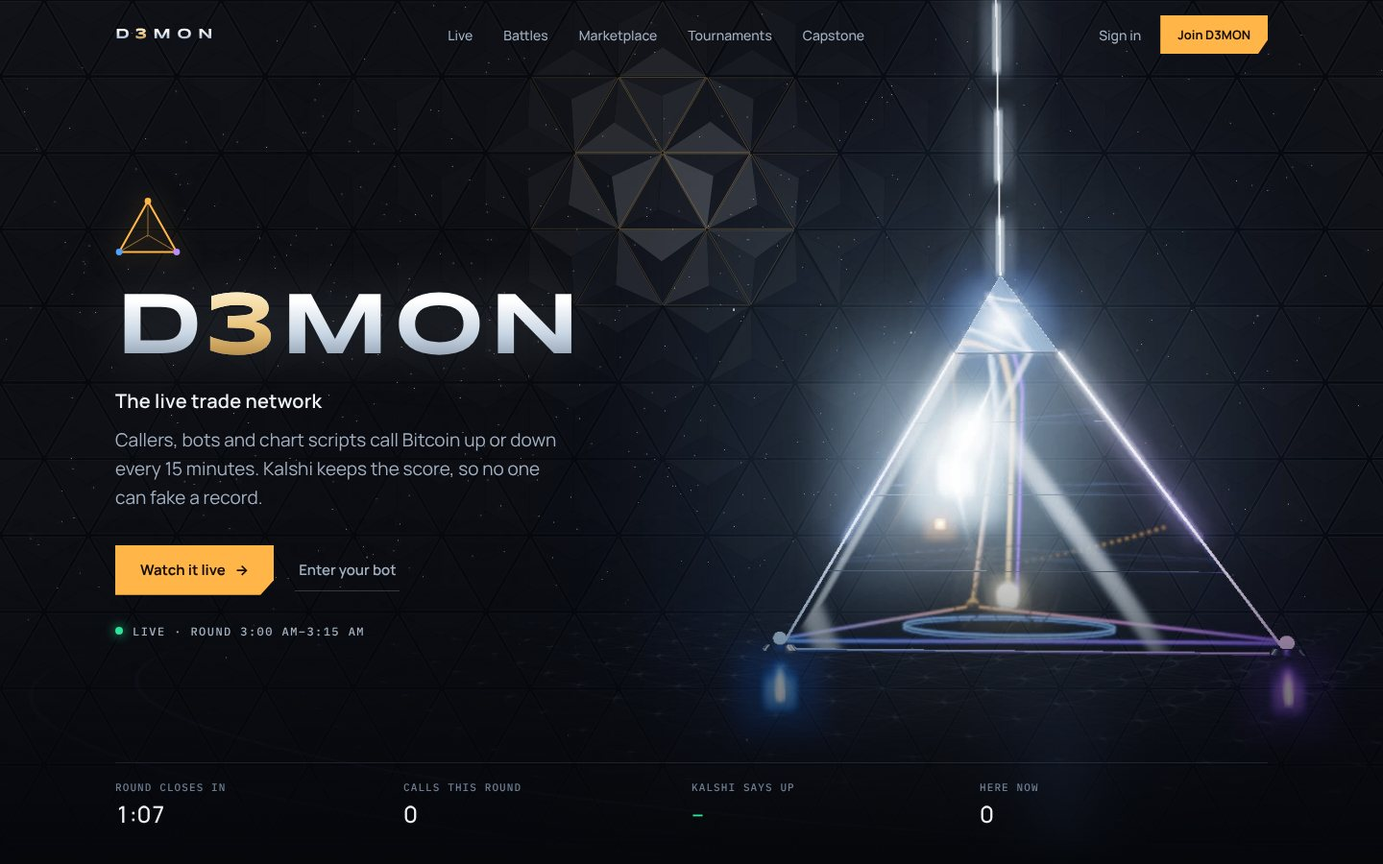
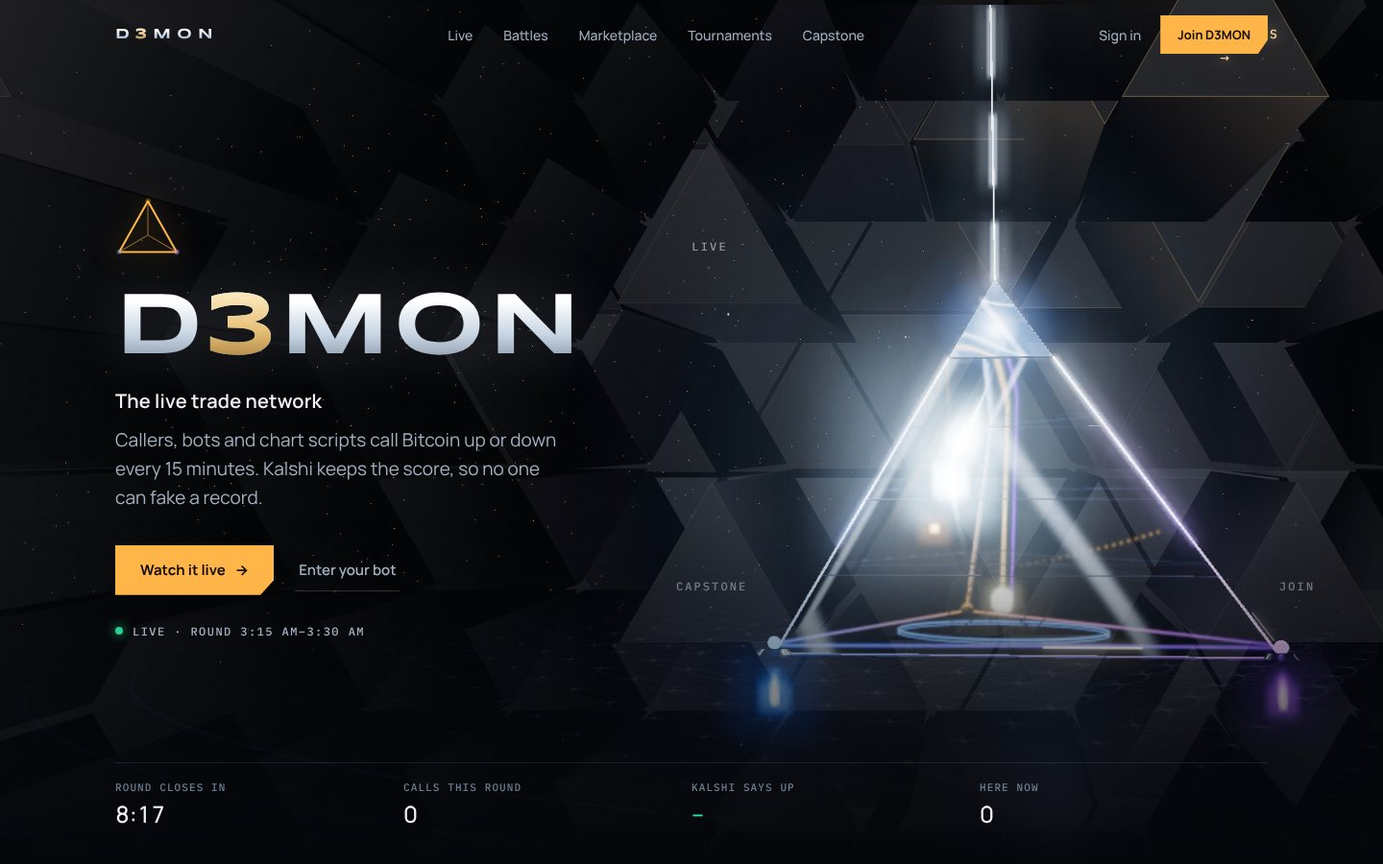
/next: a wall of deep black blocks, three of them shortcuts
After Rubric's tiles, made D3MON's own: big matte-black triangular blocks with deep sides
form a tunnel that opens around the glass pyramid. They breathe, push out toward the
pointer on a spring with a faint gold edge, and ripple from a click; behind the words they
stay back and dark. Three blocks are engraved shortcuts (Live, Tournaments, Capstone)
that open through the page transition.

Claude-Session: https://claude.ai/code/session_014SvgFLPymcNibG8zpDTguD

diff --git a/public/js/next.js b/public/js/next.js
@@ -12,71 +12,127 @@
   const pct = v => (v == null ? "–" : `${Math.round(v * 100)}%`);
   const KIND = { caller: "Caller", bot: "Bot", script: "Chart script" };
 
-  // ---------- the hero's wall: a field of small glass pyramids. Each triangle tile is a low three-sided pyramid; the
-  // ones near the pointer rise on a spring and settle back when it leaves, their faces lit from the pointer and their
-  // raised edges catching a fine gold line. A click or tap sends a ripple across the wall. Calm everywhere else, and
-  // quiet behind the words. Reduce motion gets the still, lit wall.
+  // ---------- the hero's wall (after Rubric's deep tiles, made D3MON's own): big matte-black triangular blocks with
+  // deep sides, seen in perspective, forming a tunnel that opens around the glass pyramid. Blocks further out stand
+  // nearer; each breathes slowly in and out, the ones near the pointer push out toward you on a spring and settle
+  // back, and a click sends a push rippling through the wall. The edges facing the light catch a faint gold.
+  // Reduce motion gets the still tunnel.
   function field() {
     const cv = $("field"), g = cv.getContext("2d"), dpr = Math.min(2, devicePixelRatio || 1);
-    let W, H, S, tiles = [], mx = -1e4, my = -1e4, ease = 0, seen = true, waves = [];
+    let W, H, S, F, vx, vy, tiles = [], mx = -1e4, my = -1e4, sx = 0, sy = 0, seen = true, waves = [], t0 = performance.now();
+    const BACK = -520; // how deep the blocks' sides run
+    // a few blocks are shortcuts, engraved with where they go (wide screens; phones have the Menu). Each sits at a
+    // spot clear of the words and the pyramid, given as a share of the hero's width and height.
+    const LINKS = [{ at: [0.49, 0.3], label: "Live", href: "#live" }, { at: [0.9, 0.25], label: "Tournaments", href: "tournaments" },
+      { at: [0.49, 0.7], label: "Capstone", href: "vip" }];
+    let hover = null;
     function size() {
       W = cv.clientWidth; H = cv.clientHeight; cv.width = W * dpr; cv.height = H * dpr; g.setTransform(dpr, 0, 0, dpr, 0, 0);
-      S = W > 900 ? 92 : 62; // a tile's side
-      const h = S * 0.866; tiles = [];
-      for (let r = -1; r * h < H + h; r++) for (let c = -2; c * S / 2 < W + S; c++) {
+      const wide = W > 900;
+      S = wide ? 190 : 120; F = wide ? 1700 : 1100;
+      // the tunnel opens where the pyramid stands: right of the words on wide screens, the top half on phones
+      vx = wide ? W * 0.72 : W * 0.5; vy = wide ? H * 0.5 : H * 0.26;
+      const h = S * 0.866, open = wide ? Math.min(W, H) * 0.42 : W * 0.48; tiles = [];
+      for (let r = -2; r * h < H + 2 * h; r++) for (let c = -3; c * S / 2 < W + 2 * S; c++) {
         const up = (r + c) % 2 === 0, x = c * S / 2, y = r * h;
         const pts = up ? [[x + S / 2, y], [x + S, y + h], [x, y + h]] : [[x, y], [x + S, y], [x + S / 2, y + h]];
         const cx = (pts[0][0] + pts[1][0] + pts[2][0]) / 3, cy = (pts[0][1] + pts[1][1] + pts[2][1]) / 3;
-        // the wall darkens toward the middle-left, where the words sit, so it never fights them
-        const quiet = Math.min(1, Math.hypot((cx - W * 0.28) / (W * 0.45), (cy - H * 0.5) / (H * 0.6)));
-        tiles.push({ pts, cx, cy, quiet, z: 0, v: 0, p: Math.random() * 6.28, f: 0.2 + Math.random() * 0.3 });
+        const ins = pts.map(([px, py]) => [px + (cx - px) * 0.06, py + (cy - py) * 0.06]); // the seam between blocks
+        const k = Math.min(1, Math.max(0, (Math.hypot(cx - vx, cy - vy) - open) / (open * 1.3)));
+        // calm behind the words: the blocks there sit back and stay dark so the text reads
+        const calm = wide ? Math.max(0, 1 - Math.hypot((cx - W * 0.22) / (W * 0.26), (cy - H * 0.5) / (H * 0.42))) : 0;
+        tiles.push({ pts: ins, cx, cy, up, calm, base: (40 + 230 * k * k * (3 - 2 * k)) * (1 - 0.7 * calm), z: 0, v: 0, p: Math.random() * 6.28, f: 0.25 + Math.random() * 0.25 });
+      }
+      if (wide) for (const l of LINKS) { // the upward block nearest each spot carries the shortcut
+        const [px, py] = [l.at[0] * W, l.at[1] * H];
+        const at = x => proj(x.cx, x.cy, x.base + 70); // where it will stand, raised
+        const t = tiles.filter(x => x.up && !x.link && x.calm < 0.05 && at(x)[1] > H * 0.2 && at(x)[1] < H * 0.78 && at(x)[0] < W - S * 0.5)
+          .sort((a, b) => Math.hypot(at(a)[0] - px, at(a)[1] - py) - Math.hypot(at(b)[0] - px, at(b)[1] - py))[0];
+        if (t) t.link = l;
       }
     }
-    const pullR = () => (W > 900 ? 230 : 150);
+    // a point at depth z, seen from in front of the vanishing point (which drifts a little with the pointer)
+    const proj = (x, y, z) => { const s = F / (F - z), ox = vx + sx, oy = vy + sy; return [ox + (x - ox) * s, oy + (y - oy) * s]; };
     function draw(now) {
-      const tt = now / 1000, R = pullR();
-      ease = Math.min(1, ease + 0.02);
-      waves = waves.filter(w => tt - w.t < 2.4);
-      g.fillStyle = "#06080c"; g.fillRect(0, 0, W, H);
+      const tt = (now - t0) / 1000, R = W > 900 ? 300 : 180;
+      waves = waves.filter(w => tt - w.t < 2.6);
+      if (!reduce) { sx += ((mx > -1e3 ? (mx - vx) * -0.04 : 0) - sx) * 0.05; sy += ((my > -1e3 ? (my - vy) * -0.04 : 0) - sy) * 0.05; }
+      const intro = reduce ? 1 : Math.min(1, tt / 2.2), io = 1 - (1 - intro) ** 3; // on arrival the blocks slide forward out of the dark
       for (const t of tiles) {
-        // how high the tile wants to be: a faint swell, the pointer lifting the ones near it, and any ripple passing
-        const swell = reduce ? 0.15 : 0.12 + 0.1 * Math.sin(tt * t.f + t.p + t.cx * 0.004 - t.cy * 0.003);
-        const d = Math.hypot(t.cx - mx, t.cy - my), near = Math.max(0, 1 - d / R), lift = near * near * (3 - 2 * near);
+        const breathe = reduce ? 0 : 18 * Math.sin(tt * t.f + t.p);
+        const d = Math.hypot(t.cx - mx, t.cy - my), near = Math.max(0, 1 - d / R), push = near * near * (3 - 2 * near) * 110;
         let ring = 0;
-        for (const w of waves) { const rr = (tt - w.t) * 620, gap = Math.abs(Math.hypot(t.cx - w.x, t.cy - w.y) - rr); ring = Math.max(ring, Math.max(0, 1 - gap / 70) * (1 - (tt - w.t) / 2.4)); }
-        const target = (swell + 1.1 * lift + 0.9 * ring) * ease;
-        if (reduce) t.z = target; else { t.v += (target - t.z) * 0.09; t.v *= 0.78; t.z += t.v; } // a soft spring: it pumps out, then settles
-        const z = Math.max(0, t.z), k = t.quiet;
-        // the apex leans away from the pointer as the tile rises, so it reads as a raised pyramid
-        const lean = Math.min(1, z) * S * 0.08, dx = t.cx - mx, dy = t.cy - my, dl = Math.hypot(dx, dy) || 1;
-        const ax = t.cx + (d < 2 * R ? (dx / dl) * lean : 0), ay = t.cy + (d < 2 * R ? (dy / dl) * lean : 0);
-        const grow = 0.07 - 0.05 * Math.min(1, z); // raised tiles close the seams a little
-        const P = t.pts.map(([px, py]) => [px + (t.cx - px) * grow, py + (t.cy - py) * grow]);
+        for (const w of waves) { const rr = (tt - w.t) * 700, gap = Math.abs(Math.hypot(t.cx - w.x, t.cy - w.y) - rr); ring = Math.max(ring, Math.max(0, 1 - gap / 120) * (1 - (tt - w.t) / 2.6)); }
+        const target = (t.base + breathe + push + 110 * ring + (t.link ? 70 : 0) + (t === hover ? 45 : 0)) * io - 200 * (1 - io);
+        if (reduce) t.z = target; else { t.v += (target - t.z) * 0.06; t.v *= 0.8; t.z += t.v; } // a soft spring: it pumps out, then settles
+        t.near = near;
+      }
+      g.fillStyle = "#040507"; g.fillRect(0, 0, W, H);
+      const ox = vx + sx, oy = vy + sy;
+      for (const t of [...tiles].sort((a, b) => a.z - b.z)) { // far blocks first
+        const front = t.pts.map(([x, y]) => proj(x, y, t.z)), back = t.pts.map(([x, y]) => proj(x, y, BACK));
+        const depth = Math.max(0, Math.min(1, t.z / 300));
+        // the sides: only the ones that face the opening are seen; lit a little from above, warmed by the pointer
         for (let m = 0; m < 3; m++) {
-          const a = P[m], b = P[(m + 1) % 3];
-          // the face's light: how much it faces the pointer (from above, a little in front), plus a soft top light
-          const fx = (a[0] + b[0] + ax) / 3, fy = (a[1] + b[1] + ay) / 3, ex = (a[0] + b[0]) / 2 - ax, ey = (a[1] + b[1]) / 2 - ay, el = Math.hypot(ex, ey) || 1;
-          const lx = mx - fx, ly = my - fy, ll = Math.hypot(lx, ly) || 1;
-          const toPtr = Math.max(0, (ex * lx + ey * ly) / (el * ll)) * Math.max(0, 1 - ll / (R * 2.2));
-          const top = Math.max(0, -ey / el) * 0.5 + 0.35;
-          const lit = (8 + 14 * z * top + 46 * z * toPtr) * (0.4 + 0.6 * k);
-          g.fillStyle = `rgb(${Math.round(lit + 6)},${Math.round(lit + 8)},${Math.round(lit + 13)})`;
-          g.beginPath(); g.moveTo(a[0], a[1]); g.lineTo(b[0], b[1]); g.lineTo(ax, ay); g.closePath(); g.fill();
+          const a = t.pts[m], b = t.pts[(m + 1) % 3], mxm = (a[0] + b[0]) / 2, mym = (a[1] + b[1]) / 2;
+          let nx = b[1] - a[1], ny = a[0] - b[0];
+          if (nx * (mxm - t.cx) + ny * (mym - t.cy) < 0) { nx = -nx; ny = -ny; } // the side's outward direction
+          if (nx * (ox - mxm) + ny * (oy - mym) <= 0) continue;
+          const nl = Math.hypot(nx, ny), up = Math.max(0, -ny / nl);
+          const l = (16 + 22 * up + 14 * depth) * (1 - 0.6 * t.calm);
+          const warm = t.near * 26;
+          const grd = g.createLinearGradient(...front[m], ...back[m]);
+          grd.addColorStop(0, `rgb(${Math.round(l + warm)},${Math.round(l + warm * 0.75)},${Math.round(l + 4 + warm * 0.35)})`); grd.addColorStop(1, "rgb(3,4,6)");
+          g.fillStyle = grd;
+          g.beginPath(); g.moveTo(...front[m]); g.lineTo(...front[(m + 1) % 3]); g.lineTo(...back[(m + 1) % 3]); g.lineTo(...back[m]); g.closePath(); g.fill();
         }
-        // the seams, and a fine gold line on the edges of the tiles that have risen
-        g.beginPath(); g.moveTo(P[0][0], P[0][1]); g.lineTo(P[1][0], P[1][1]); g.lineTo(P[2][0], P[2][1]); g.closePath();
-        const gold = Math.max(0, Math.min(1, z - 0.25)) * k;
-        g.strokeStyle = gold > 0.02 ? `rgba(233,194,122,${(0.55 * gold).toFixed(3)})` : `rgba(170,200,240,${(0.03 + 0.05 * k).toFixed(3)})`;
+        // the face: matte black, a touch lighter at the top, a faint rim, gold where the pointer is near
+        const top = Math.min(front[0][1], front[1][1], front[2][1]), bot = Math.max(front[0][1], front[1][1], front[2][1]);
+        const lf = Math.round((28 + 12 * depth) * (1 - 0.55 * t.calm)), fg = g.createLinearGradient(0, top, 0, bot);
+        fg.addColorStop(0, `rgb(${lf + 5},${lf + 6},${lf + 9})`); fg.addColorStop(1, `rgb(${lf - 5},${lf - 5},${lf - 3})`);
+        g.fillStyle = fg;
+        g.beginPath(); g.moveTo(...front[0]); g.lineTo(...front[1]); g.lineTo(...front[2]); g.closePath(); g.fill();
+        g.strokeStyle = t.near > 0.05 ? `rgba(233,194,122,${(0.06 + 0.4 * t.near).toFixed(3)})` : `rgba(190,205,230,${((0.06 + 0.08 * depth) * (1 - 0.6 * t.calm)).toFixed(3)})`;
         g.lineWidth = 1; g.stroke();
+        t.front = front;
+      }
+      for (const t of tiles) {
+        if (t.link && t.front) { const front = t.front; // the engraving: the place's name, gold with an arrow when the pointer is on it
+          const on = t === hover, c = front.reduce((q, [x, y]) => [q[0] + x / 3, q[1] + y / 3], [0, 0]), sc = F / (F - t.z);
+          g.save(); g.textAlign = "center"; g.textBaseline = "middle";
+          g.font = `500 ${Math.round(11 * sc)}px "IBM Plex Mono", monospace`; g.letterSpacing = `${(2 * sc).toFixed(1)}px`;
+          g.fillStyle = on ? "#F2D49A" : `rgba(205,215,232,${(0.62 * io).toFixed(2)})`;
+          if (on) { g.shadowColor = "rgba(233,194,122,.7)"; g.shadowBlur = 12; }
+          g.fillText(t.link.label.toUpperCase(), c[0], c[1] - 2 * sc);
+          g.font = `400 ${Math.round(13 * sc)}px "IBM Plex Mono", monospace`;
+          g.fillStyle = on ? "#F2D49A" : `rgba(200,212,230,${(0.28 * io).toFixed(2)})`;
+          g.fillText(on ? "→" : "·", c[0], c[1] + 18 * sc);
+          g.restore();
+        }
       }
       if (seen && !reduce && !document.hidden) requestAnimationFrame(draw);
     }
     new IntersectionObserver(([en]) => { const was = seen; seen = en.isIntersecting; if (seen && !was && !reduce) requestAnimationFrame(draw); }).observe(cv); // the wall rests while scrolled away
     size(); requestAnimationFrame(draw);
     addEventListener("resize", () => { size(); if (reduce) requestAnimationFrame(draw); });
-    addEventListener("pointermove", e => { const r = cv.getBoundingClientRect(); mx = e.clientX - r.left; my = e.clientY - r.top; }, { passive: true });
-    document.documentElement.addEventListener("pointerleave", () => { mx = my = -1e4; });
-    cv.closest(".n-hero").addEventListener("pointerdown", e => { if (reduce) return; const r = cv.getBoundingClientRect(); waves.push({ x: e.clientX - r.left, y: e.clientY - r.top, t: performance.now() / 1000 }); });
+    // which shortcut block, if any, is under a point (its face as drawn last frame)
+    const inside = (P, x, y) => { let sgn = 0; for (let m = 0; m < 3; m++) { const [ax, ay] = P[m], [bx, by] = P[(m + 1) % 3], c = (bx - ax) * (y - ay) - (by - ay) * (x - ax); if (c) { if (sgn && Math.sign(c) !== sgn) return false; sgn = Math.sign(c); } } return true; };
+    const linkAt = (x, y) => tiles.find(t => t.link && t.front && inside(t.front, x, y)) || null;
+    addEventListener("pointermove", e => {
+      const r = cv.getBoundingClientRect(); mx = e.clientX - r.left; my = e.clientY - r.top;
+      hover = e.target === cv ? linkAt(mx, my) : null; cv.style.cursor = hover ? "pointer" : "";
+    }, { passive: true });
+    document.documentElement.addEventListener("pointerleave", () => { mx = my = -1e4; hover = null; });
+    cv.addEventListener("click", e => {
+      const r = cv.getBoundingClientRect(), t = linkAt(e.clientX - r.left, e.clientY - r.top);
+      if (!t) return;
+      if (t.link.href.startsWith("#")) { document.querySelector(t.link.href).scrollIntoView({ behavior: reduce ? "auto" : "smooth" }); return; }
+      // a real link, clicked where the block is, so the page transition opens from the block
+      const a = document.createElement("a"); a.href = t.link.href; a.hidden = true; document.body.appendChild(a);
+      a.dispatchEvent(new MouseEvent("click", { bubbles: true, cancelable: true, clientX: e.clientX, clientY: e.clientY, detail: 1 }));
+      a.remove();
+    });
+    cv.closest(".n-hero").addEventListener("pointerdown", e => { if (reduce) return; const r = cv.getBoundingClientRect(); waves.push({ x: e.clientX - r.left, y: e.clientY - r.top, t: (performance.now() - t0) / 1000 }); });
     document.addEventListener("visibilitychange", () => { if (!document.hidden && seen && !reduce) requestAnimationFrame(draw); });
   }
 

diff --git a/CLAUDE.md b/CLAUDE.md
@@ -121,7 +121,7 @@ npm run kalshi:check   # reads Kalshi's latest rounds and shows how each is scor
 - [ ] **New direction (owner, 2026-10-17): automatic, always-on tournaments**, hourly, daily, weekly and monthly at once, for opted-in bots and scripts, scored from Kalshi. Owner agreed: D3MON never trades, tournaments rank entrants (reverses "no leaderboard" for tournaments only), a "not financial advice" notice, opt-in per bot. The owner dropped the hosted HardSmoke show; battle code stays, unused, until the owner decides to remove it. Plan and build steps: [`docs/TOURNAMENTS.md`](docs/TOURNAMENTS.md). Step 1 done: the "Join tournaments" switch (`server/arena/tournaments.js`, `test/tournaments.test.js`). Step 2 done: joining D3MON without a battle (`registry.join`, `POST /api/v1/applications`). Step 3 done: standings (`GET /api/v1/tournaments`, `GET /api/v1/tournaments/:id`). Step 4 done: the `/tournaments` page and the `tournaments` feed topic. Step 5a done: saved final results (`tournament_final` lines, `Tournaments.finalizeDue`). Step 5b done: admin controls (remove a bot, pause all). **All 5 steps of the plan are built.**
   This simplifies the 3D Grand Hall into a live trading floor (see `docs/world/`).
 - [ ] **D3MON World (3D redesign):** planning in [`docs/world/`](docs/world/README.md). **Building since 2026-10-18:** `/world` (`public/world.html`, `js/world.js`, `css/world.css`) is the 2D version with the new top bar (Join D3MON, Menu, Admin, account, Quality) and the four places on live data; `GET /api/v1/rounds/:round/calls` feeds this round's calls. Device levels: Auto starts at Lite and drops to 2D for reduce motion, data saver, low memory, few cores, no WebGL or software WebGL; the choice is in `localStorage` `d3w.quality`. **3D outside done** (`public/js/world3d.js`, three.js 0.169.0 vendored in `public/vendor/` with its README and licence): loaded with a dynamic `import()` only when the level isn't 2D, so 2D never downloads it; scrolling Outside drives the opening: the overhead D3MON title, the triangle rising into the pyramid, the opening shot, the front-face stargate. **The skull, stargate dive and swarm-of-lights opening was tried and dropped (owner, 2026-10-18: "go back to that version"); it's in git history (`a9160b6`, `b029b77`) if wanted again.** The look follows the owner's concept board `docs/world/inspiration/05-grand-hall-concepts.webp`: **clear glass walls with panel seams, and inside them the trading floor**: a glass walkway ring with railings, a ring of green/red up/down ticks, the calls streaming into a bright core, the golden beam up to the capstone, and glass screens with charts (made-up candles for now, live data later). **No stars** (owner doesn't like them). Owner, 2026-10-18 (later the same day): **random light beams** rising in the dark with pulses, and **comets** (random sizes, glowing trails) on tilted orbits around the pyramid, in the three colours and white; the floor is **the main page's own Flower of Life** (`--fol` from `d3mon.css`, same tile size from overhead) and forms outward from the pyramid on arrival; the glow around the pyramid fades out with no edge; **the upright stargate was removed** (owner: it had no use; it was tried on the front face and then in the centre); the scroll now ends by gliding through the front glass down to the bright core, with a burst of light. **The comets spiral in to the golden beam, ride it up through the capstone and out along a laser into the sky**; each one sends a pulse up the laser, and the sky flashes faintly as it goes high (owner, 2026-10-18). **Inside, from the 10118 video** (owner: "I like everything about this", leaving out the booths with people and the star shapes): two rings of glass chart screens, a glass ramp spiralling up around the beams with six hexagon bot pods, floating code and maths for the chart scripts near the top, the people online as little lights in the stands, and a violet beam beside the golden one. The scroll goes through the front glass, then glides up beside the ramp to the code near the top; up close the core's glow, the beams and the comets dim and shrink so they don't fill the screen. Later the same day (owner): **the comets fly into the three corners of the triangle (taking that corner's colour), run along the floor to the centre, then climb the beam**; the helix is one clean, wider glass ramp (no rails or ties) with lights walking up it, the screens are bigger and kept inside it, and **it ends level at the VIP Room**, a round gold glass room under the capstone with the featured callers as three gold lights; **the scroll ends looking at the VIP Room**. Behind the 2D sections below, the 3D dims to 12% with a blur so they read cleanly. Then (owner): a tasteful mix of comets, fewer in all: about 40% just circle the pyramid on slow tilted orbits (the circling the owner liked) and the rest circle in to a corner, run the floor and climb the beam; fewer random beams. **The VIP Room is the crystal capstone: the whole tip of the pyramid** above a gold landing, built from the pyramid's own corners so it's straight and lines up, glowing brighter toward the top, with the featured callers as three gold lights; no screens up there (owner: cleaner). **The helix levels off and runs onto a full landing ring** round the foot of the crystal, in the helix's own blue right through (owner, 2026-10-19). Fewer, bigger screens below (4 + 3 charts, 1 code, 1 maths). **At the top of the helix the camera rides the centre beam up under the crystal, then pulls out through the front glass: the scroll ends on a hero view of the whole crystal tip.** Screens face the camera's path and text is one-sided, so nothing reads mirrored. **The owner's vision for navigation (2026-10-18): move through the whole site like this, gliding along structures (the helix, the beam as a lift) from place to place, rather than jumping between pages. Keep it in mind for every place we build.** No glow pass in this version (the add-ons stay vendored in `public/vendor/three-addons-0.169.0/` for later); the camera never spins or rolls, and reduce motion cuts between shots; Auto drops to 2D if the first seconds run slower than about 22 fps (`sessionStorage` `d3w.slow`). **The Grand Hall goes live (2026-10-18, BLUEPRINT step 4 begun):** remember what it's for (owner): the everyday trading room where everyone trades daily, with the tournaments, the round clock, every call live, special-event battles, the D3MON Discord as its chat and voice, and video streams on the walls. Its four live screens form a curved wall facing the way in (the camera stops in front of them): **last round** (Kalshi's result, right and wrong, the best paper result), **this round** (clock to the second, each call with its price, callers sealed), **tournament** (top 6, "not financial advice") and **D3MON Discord** (kept for the chat and voice, "coming soon"). The ring of ticks is the round clock (the last 72 rounds, green up, red down, the round now in white) and the 9 spokes are this round's calls (the entrant's colour at the end, the line green or red by direction, white while sealed). `world.js` hands the data over with `scene3d.hall(...)` after each load and reloads every 20 s. **Look around (owner, 2026-10-19):** the camera now holds at each level of screens (the hall's live screens at scroll 0.70–0.77, the level above at 0.83–0.89); while it's held, ◀ ▶ buttons (and the arrow keys, and a sideways swipe) turn that level's ring of screens one screen at a time, so each comes round to face the visitor. The camera never turns. Live screens are solid (normal blending) so the beam behind doesn't wash out the text. **Three levels now (owner, 2026-10-19):** level 1 the hall's live screens (0.70–0.77), level 2 (0.81–0.86) a turning ring of a chart, the **top chart scripts** (from the tournament), **bring your script** and a script's code, and **level 3 at the very top (0.89–0.93) is one screen that comes up centred: "Where to next?"** (VIP Room, which glides the scroll up to the crystal; Tournaments; every bot, script and caller; My bots; Join D3MON), picked by pointing and clicking on the screen (a raycast finds the line) or with the up/down keys and Enter. **Dragging with the mouse turns a level's ring** and it settles on the nearest screen when let go; ◀ ▶, the arrow keys and swipes still work. After the menu the camera goes through the glass into the beam lift, then out to the crystal tip. **The hall's circle is complete (owner, 2026-10-19: "do what you think is best"):** ten screens all the way round, turning freely: last round, this round, tournament, D3MON Discord, plus **two spotlights** (each cycles through the bots and scripts every 12 s: maker, today's record, this round's call and price, last round's paper result), **live event** (a special-event battle while it's on, with "its live stream plays here" kept for streams, or the next event), **Kalshi now** (Up and Down prices this round from the new public `GET /api/v1/market`, "the crowd gives Up a 62% chance"), **this hour** (the hourly tournament) and **callers** (how many called this round, sealed, and last round's right and wrong). `world.js` fetches the market, battles and hourly standings only when the 3D scene is running. **The hall reacts to what really happens (owner, 2026-10-19):** every new call (seen in the 20 s reload) flies in as a bigger, quicker comet in its entrant's colour (white while a caller's is sealed) to its own corner of the triangle (callers, bots, scripts), runs the floor and climbs the beam; on opening, the last few calls fly in too. When a round's result arrives, a ring of green (up) or red (down) draws in to the core, then one pulse of that colour rides up the centre beam and out of the capstone along the laser (owner, 2026-10-19: clean, nothing running outward); a result already in when the page opened isn't replayed. **The main page's Live Trade Cortex emblem is at the heart of the pyramid** (owner, 2026-10-19): the same drawing as `.sigil.gim` in `index.html`, layer for layer, with the same movements as `d3mon.css` (rings tumbling 14 s round X, 11 s round Y, 8 s back round X, each spinning in its plane 30 s, 16 s back, 10 s; the inner dashed ring 22 s back, the triangle 40 s, the heart pulsing 2.4 s). It lies flat on the floor at the foot of the beam (owner, 2026-10-19: so from the top it stays as it is on the main page), facing up with its triangle's corners toward the pyramid's, its lines glowing, its rings tumbling up out of the floor and the beam rising from its heart; it's the main page's size over the flat triangle and settles just inside the ring of ticks. **Calmer and fuller (owner, 2026-10-19):** the middle level is a full circle of eight screens like the hall's (chart, top chart scripts, scripts this round, scripts last round, bring your script, code, another chart, maths); the ambient comets and edge dots are fewer, smaller and dimmer, and each ambient comet rests 2–8 s between flights, while real calls stay big and bright. The little lights in the stands (the people online) were removed too (owner: they looked messy). The hexagon pods on the helix were removed (owner: cleaner); stops for navigation can go on the helix later, once the places they lead to are rooms in the world. **The lock moment** (BLUEPRINT section 5, 2026-10-19): in a round's last 10 s the hall dims and the This round screen counts down big ("Calls close"); at the close the emblem and core flash, and for 6 s the spokes hold the round that just closed with its sealed calls flipped to green or red; `world.js` reloads 1.5 s after each close for the revealed calls and 11 s later for Kalshi's result, which brings the pulse up the beam. Reduce motion gets the flip without the dimming or flash. No sound yet. `?fps` also exposes the scene as `window.__w3d` for testing by hand. Next for the hall: the D3MON Discord chat, video streams on the walls. Read it before any `/world` work; open decisions are in `docs/world/QUESTIONS.md`. **The site map** (`docs/world/SITEMAP.md`, 2026-10-18) lists every page and section, who uses it and where it goes (Outside, Grand Hall = tournaments, Helix, Trade Floor, My D3MON, one admin hub); follow it for the tidy-up
-- [ ] **New direction (owner, 2026-10-20): no more "everything in the triangle".** The scroll-through-the-pyramid world is too much (camera flights, rings of screens, the floating menu). Build **a clean website in the new style** (glass panels, chrome D3MON with the gold 3, Syncopate, Manrope, IBM Plex Mono) organised by **its main parts**: Live (this round, calls, chat), Battles (HardSmoke's events), Tournaments, Marketplace (profiles, "Get this bot"), Capstone (VIP sessions) and My D3MON. Each part can have its own feel within one style, joined by **good transitions** (sections sliding or fading in, cards expanding into pages), with **3D only as a highlight** where it pays off (e.g. the front page, a battle going live). The pyramid can appear but **doesn't have to tie everything together**. **Clarified (owner, 2026-10-20): the owner likes the triangle's look and its symbolism** (three corners: callers, bots, chart scripts, meeting in one place); **what goes is the helix with all the screens inside the pyramid.** Keep the triangle as the brand symbol (e.g. the particle triangle on `/next`, a clean glass pyramid without the inside as a hero), just not as the site's navigation Don't build more of the 3D world (`world3d.js`); keep it in git. Ask the owner which part to start with. **`/next` finished in the hero's style (2026-10-20):** every part uses the chrome Syncopate titles, a mono kicker with a small three-colour triangle, one amber button with the cut corner (gold for Capstone), underlined links for the rest, and cards with the same cut corner; a Menu button on phones; an honest empty state when no battle is announced. **No particles** (owner, 2026-10-20: "the dots make it look messy"; "clean and luxurious"). **The hero's wall** is a field of small glass pyramids: tiles near the pointer rise on a spring and settle back, their faces lit from the pointer, their raised edges catching a fine gold line, and a click sends a ripple (owner liked Rubric's tiles "pumping out", wanted something of D3MON's own). **The pyramid is alive** (owner: "looks plain just sitting there"): a point of light slowly circles its edges, a pulse rises up the beam, the tip breathes, and it drifts a few pixels with the pointer; the lines are laid over the picture from its pixels (`FACE` in `js/next.js`). The small triangle above the title draws itself in and its corners light in turn (callers, bots, chart scripts). The Capstone's mark is a fine gold triangle that draws itself. **Moving between pages** (`css/transition.css`, `js/transition.js`, in every page's head): a fine gold triangle draws itself where you click, then the next page opens out of it with a hairline gold edge while the old page sinks and dims (cross-document view transitions; browsers without them and reduce motion just change page). Pictures in `docs/next/`. Not merged; no live change until the owner says so
+- [ ] **New direction (owner, 2026-10-20): no more "everything in the triangle".** The scroll-through-the-pyramid world is too much (camera flights, rings of screens, the floating menu). Build **a clean website in the new style** (glass panels, chrome D3MON with the gold 3, Syncopate, Manrope, IBM Plex Mono) organised by **its main parts**: Live (this round, calls, chat), Battles (HardSmoke's events), Tournaments, Marketplace (profiles, "Get this bot"), Capstone (VIP sessions) and My D3MON. Each part can have its own feel within one style, joined by **good transitions** (sections sliding or fading in, cards expanding into pages), with **3D only as a highlight** where it pays off (e.g. the front page, a battle going live). The pyramid can appear but **doesn't have to tie everything together**. **Clarified (owner, 2026-10-20): the owner likes the triangle's look and its symbolism** (three corners: callers, bots, chart scripts, meeting in one place); **what goes is the helix with all the screens inside the pyramid.** Keep the triangle as the brand symbol (e.g. the particle triangle on `/next`, a clean glass pyramid without the inside as a hero), just not as the site's navigation Don't build more of the 3D world (`world3d.js`); keep it in git. Ask the owner which part to start with. **`/next` finished in the hero's style (2026-10-20):** every part uses the chrome Syncopate titles, a mono kicker with a small three-colour triangle, one amber button with the cut corner (gold for Capstone), underlined links for the rest, and cards with the same cut corner; a Menu button on phones; an honest empty state when no battle is announced. **No particles** (owner, 2026-10-20: "the dots make it look messy"; "clean and luxurious"). **The hero's wall** (owner liked Rubric's big black geometric tiles moving with the mouse, and asked for something of D3MON's own): big matte-black triangular blocks with deep sides, in perspective, forming a tunnel that opens around the glass pyramid; each breathes slowly, the ones near the pointer push out on a spring (edges catching gold), a click sends a push rippling through, and blocks behind the words stay back and dark. **Three blocks are shortcuts** (wide screens only): Live, Tournaments and Capstone, engraved on the block, standing a little forward, gold with an arrow on hover; a click goes through the page transition ( in , placed where they appear on screen, clear of the words and the pyramid). **The pyramid is alive** (owner: "looks plain just sitting there"): a point of light slowly circles its edges, a pulse rises up the beam, the tip breathes, and it drifts a few pixels with the pointer; the lines are laid over the picture from its pixels (`FACE` in `js/next.js`). The small triangle above the title draws itself in and its corners light in turn (callers, bots, chart scripts). The Capstone's mark is a fine gold triangle that draws itself. **Moving between pages** (`css/transition.css`, `js/transition.js`, in every page's head): a fine gold triangle draws itself where you click, then the next page opens out of it with a hairline gold edge while the old page sinks and dims (cross-document view transitions; browsers without them and reduce motion just change page). Pictures in `docs/next/`. Not merged; no live change until the owner says so
 - [ ] **Who the users are (owner, 2026-10-19): read [`docs/world/USERS.md`](docs/world/USERS.md) before designing any page.** Owners sell their callers, bots and scripts (profiles are shop windows; D3MON earns a commission); the community hangs out to chat, talk, listen to music, stream and trade together; **HardSmoke's special events (bot battles) are a major source of traffic** (so the battle code is used again); capstone sessions are scheduled and paid; money from ads, commissions and capstone access
 - [ ] **Built on the branch overnight (2026-10-19, owner's "yes, all five"), not merged yet:** (1) **HardSmoke's battles**: a battle's `streams` (admins; YouTube, Twitch, Kick, Discord, https only), the next battle on the front page with Apply to battle (`/apply?battle=<id>`), and the hall's event card (lineup, streams, standings). (2) **Results and badges**: `GET /battles/:id/results` (`server/arena/results.js`), ranked like the tournaments (Kalshi-settled rounds and the entrant's own battle calls only), final when every round is settled or 30 minutes after the end; winners (rank 1, at least one correct) get a `battle_winner` badge in `GET /entrants/:slug`. (3) **The hangout**: `GET /presence` (how many have the site open, counts only), Here now and Open the chat in the live bar, the chat's latest three in the hall. (4) **The profile** `/profile?e=<slug>` (`public/profile.html`, `js/profile.js`): the shop window, with `PUT /entrants/:id/profile` (tagline, shop link with D3MON's referral code, stream link; owner writes, admins can only clear) edited on `/my`. (5) **Capstone sessions** in `vip.js`: `GET/POST /vip/sessions`, `DELETE /vip/sessions/:id` (admins), scheduled on `/vip`, the next one on the front page. Tests: `test/events.test.js`
 - [ ] **The new look (concept v2, 2026-10-19): start here for the redesign.** [`docs/world/concept-v2/README.md`](docs/world/concept-v2/README.md) has the four stills, what the owner wants, how to render them, the 7-step build plan and the open questions. **No live changes or pull request for the redesign until the owner says "go".** Stars in the sky are fine; five-point star shapes are not. **Round 2 (2026-10-19):** v3 stills after a check with the UI UX Pro Max skill (`.claude/skills/ui-ux-pro-max/`, use it for design work), phone stills, the cinematic profile still (one triangle emblem, never a star or hexagram), and [`FUNCTIONS.md`](docs/world/concept-v2/FUNCTIONS.md): what each part must do against `/api/v1`, and what's missing. **Build step 1 (film-style lighting) is done for Full quality only**: studio reflections and a colour grade in `world3d.js`; a glow pass hazed the sky and was dropped. The owner said "go" for that pull request (merged as #55). **Step 2 (the hero) is built on the branch**: the opening plays on arrival, the scroll runs from the hero shot (`OPEN = 0.56` in `world3d.js`), and a live bar on the front page. The owner also allowed changes to the Grand Hall's middle, the helix, the screen layout and the scroll layout as the steps need. The profile's tagline needs a new entrant field: ask first
